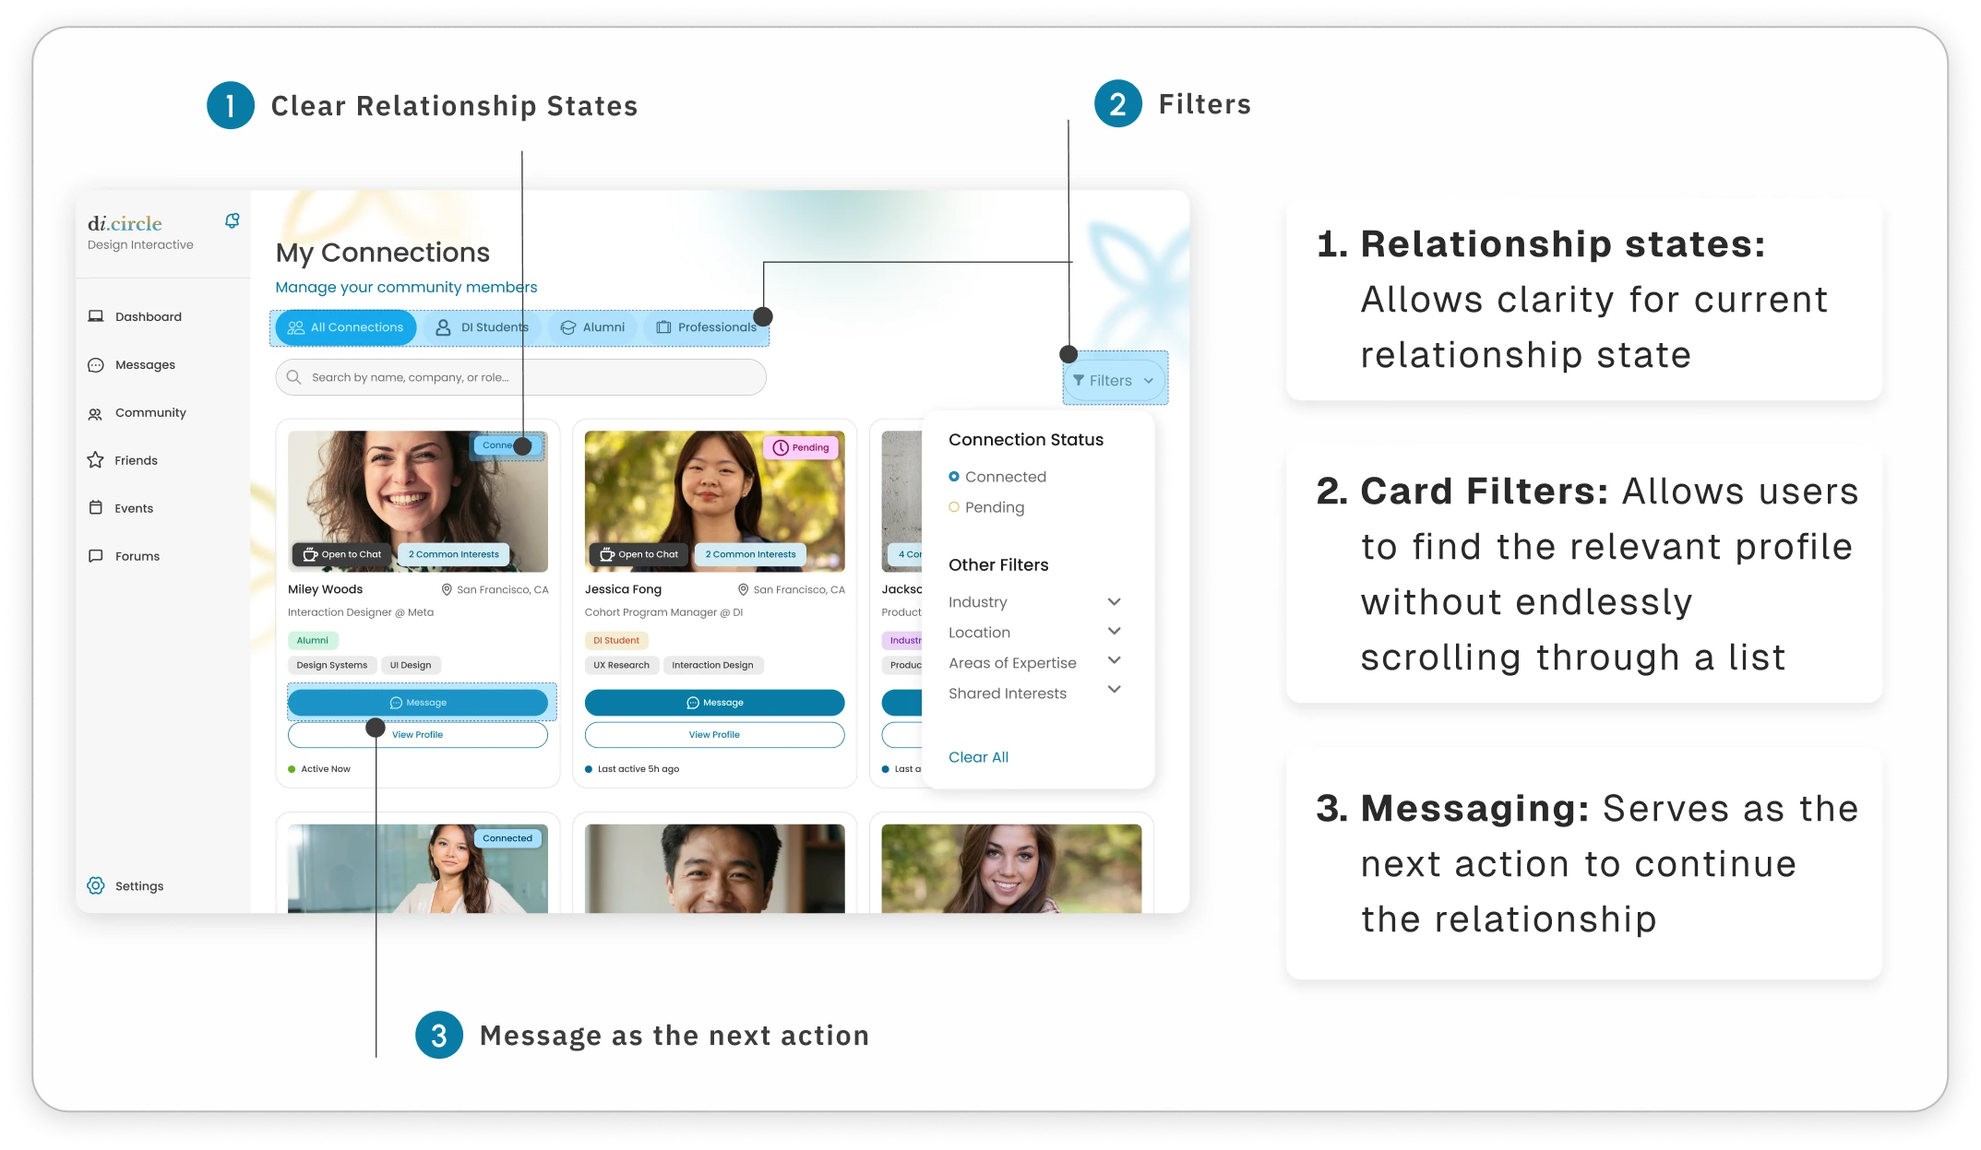
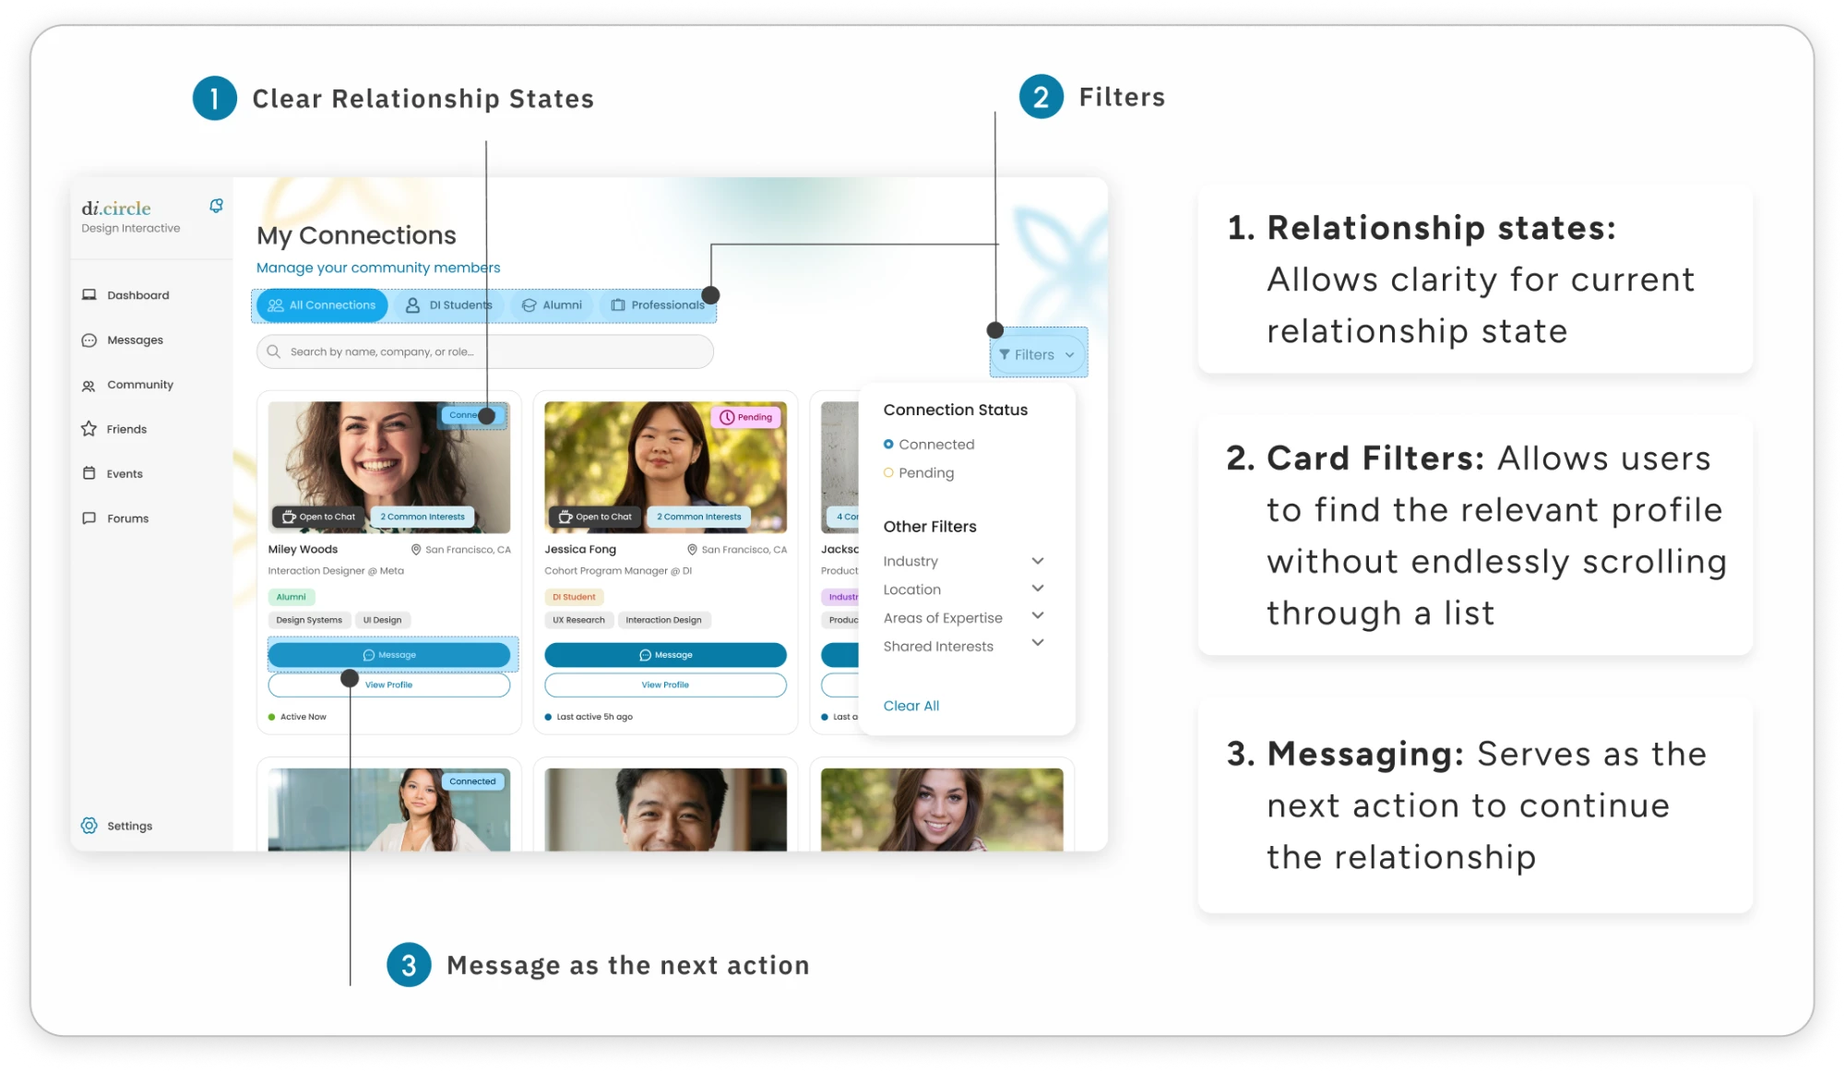
Update the di.circle case study's visuals and copy
Swap in the re-exported annotated figures and add the measurement
table, which replaces the after-journey diagram in Impact. Copy
follows the new drafts: "My Impact" and "Key Artifacts" in both the
headings and the side rail, first-person H3s through Key Design
Moments, and a Reflections section that states the behavioural
takeaway rather than restating the brief.

Changed region(s): [[0.682, 0.4028, 0.93, 0.5886], [0.682, 0.1859, 0.93, 0.3408], [0.682, 0.6816, 0.93, 0.8365]]

diff --git a/src/app/dicircle-case-study/page.tsx b/src/app/dicircle-case-study/page.tsx
@@ -59,8 +59,8 @@ const NEG = "#b4342a";
 // listener subscribes once (see CaseStudySidebar).
 const SECTIONS: SidebarSection[] = [
   { id: "overview", label: "Overview" },
-  { id: "impact", label: "My Contributions" },
-  { id: "artifacts", label: "Final Artifacts" },
+  { id: "impact", label: "My Impact" },
+  { id: "artifacts", label: "Key Artifacts" },
   { id: "problem", label: "The Problem" },
   { id: "research", label: "Research Insights" },
   { id: "challenge", label: "Design Challenge" },
@@ -144,16 +144,16 @@ export default function DiCircleCaseStudy() {
 
         <article id="ts-article" style={{ minWidth: 0, maxWidth: "var(--measure)", flex: "0 1 var(--measure)" }}>
           <h1 className="t-headline" style={{ margin: "0 0 var(--space-headline-to-body)" }}>
-            Lowering the psychological barrier to starting professional relationships
+            Lowering the psychological barrier to starting and maintaining professional relationships
           </h1>
           <p style={{ ...body, marginBottom: "var(--space-section)" }}>
-            Redesigning student-to-professional outreach through insights from 8 usability tests
+            Redesigning student-to-professional outreach, shaped by 11 interviews and 8 usability tests
           </p>
 
           <div style={{ display: "grid", gridTemplateColumns: "repeat(auto-fit,minmax(140px,1fr))", gap: "clamp(22px,5vw,30px) clamp(16px,4vw,28px)", marginBottom: "var(--space-section)" }}>
             {[
               { label: "Timeline", value: <>Oct – Dec 2025<br />(8 Weeks)</> },
-              { label: "My Role", value: "Lead Designer" },
+              { label: "My Role", value: "Connection Experience Designer" },
               { label: "Team", value: "3 Designers + 1 Design Lead" },
               { label: "Skills", value: "Figma, FigJam, Prototyping, User Interviews" },
             ].map((m) => (
@@ -168,30 +168,30 @@ export default function DiCircleCaseStudy() {
           <section id="overview" style={section}>
             <p style={eyebrow}>Overview</p>
             <h2 style={h2}>Students have access to a network of industry professionals, but students face difficulties in outreach</h2>
-            <p style={body}>When students attempt to start a conversation and maintain a relationship with a professional, they&apos;re met with intimidation and uncertainty. This results in potential connections often becoming a collection of unopened profiles and unsent messages.</p>
-            <p style={{ ...body, marginBottom: 0 }}>Design Interactive challenged our team of 4 to design an accessible outreach experience for students connecting with a professional network.</p>
+            <p style={body}>Students have access to a network of industry professionals, but starting a conversation feels intimidating and uncertain, so potential connections become unopened profiles and unsent messages.</p>
+            <p style={{ ...body, marginBottom: 0 }}>Design Interactive challenged our team of 4 to design an easy-to-use outreach experience for students connecting with a professional network.</p>
           </section>
 
           <section id="impact" style={section}>
-            <p style={eyebrow}>My Contributions</p>
-            <h2 style={h2}>I redesigned the connection journey to reduce friction in professional outreach</h2>
+            <p style={eyebrow}>My Impact</p>
+            <h2 style={h2}>I designed the connection experience, from the first request to the ongoing conversation</h2>
             <p style={body}>My contributions included:</p>
-            <div style={{ display: "flex", flexDirection: "column", gap: 16, margin: "0 0 24px" }}>
-              <Bullet>Designed and owned connect requests, relationship management, and the messaging experience.</Bullet>
-              <Bullet>Applied behavioral psychology principles to redesign iterations, reducing user friction.</Bullet>
-              <Bullet>Refined community profiles to better support the transition from evaluating a potential connection to reaching out.</Bullet>
+            {/* The section ends on the list now -- the old summary paragraph
+                repeated the 8-rounds figure that the Key Design Moments
+                heading already carries. */}
+            <div style={{ display: "flex", flexDirection: "column", gap: 16 }}>
+              <Bullet>Designed and owned connect requests, relationship management, and the messaging experience</Bullet>
+              <Bullet>Used behavioral psychology to make outreach feel lower-pressure, from asking for commitment later to removing the blank-page problem</Bullet>
+              <Bullet>Refined community profiles to support the move from evaluating a connection to reaching out</Bullet>
             </div>
-            <p style={{ ...body, marginBottom: 0 }}>
-              Across <strong style={strong}>8 rounds of usability testing</strong>, I identified and addressed high-risk friction points across a student&apos;s connection journey, from finding a professional to initiating and maintaining a relationship.
-            </p>
           </section>
 
           <section id="artifacts" style={section}>
-            <p style={eyebrow}>Final Artifacts</p>
-            <h2 style={h2}>Designing an end-to-end experience to help students move from discovering a professional to building an ongoing relationship</h2>
+            <p style={eyebrow}>Key Artifacts</p>
+            <h2 style={h2}>An end-to-end experience that helps students move from discovering a professional to building an ongoing relationship</h2>
 
             <h3 style={h3}>Connecting with a professional</h3>
-            <p style={body}>A connection flow designed to give students enough context and confidence before reaching out.</p>
+            <p style={body}>A connection flow that gives students enough context and confidence before reaching out.</p>
             <VideoFrame src="/assets/dc-connecting.mp4" label="Screen recording of the di.circle Community Hub: browsing professional profiles and sending a connect request" />
 
             <h3 style={{ ...h3, marginTop: "var(--space-section)" }}>Relationship management</h3>
@@ -205,17 +205,16 @@ export default function DiCircleCaseStudy() {
 
           <section id="problem" style={section}>
             <p style={eyebrow}>The Problem</p>
-            <h2 style={h2}>Students lacked the confidence, context, and low-pressure opportunities needed to initiate the first conversation</h2>
-            <p style={body}>They faced barriers such as intimidation around reaching out, uncertainty about how to start a conversation, and difficulty maintaining relationships.</p>
-            <p style={{ ...body, marginBottom: 0 }}>This often results in friction between finding the right person and building a genuine connection.</p>
+            <h2 style={h2}>Students lacked the confidence, context, and low-pressure opportunities to start the first conversation</h2>
+            <p style={{ ...body, marginBottom: 0 }}>They faced intimidation around reaching out, uncertainty about how to start a conversation, and difficulty maintaining relationships. That created friction between finding the right person and building a genuine connection.</p>
           </section>
 
           <section id="research" style={section}>
             <p style={eyebrow}>Research Insights</p>
-            <h2 style={h2}>The biggest friction occurred between finding someone and feeling ready to reach out</h2>
+            <h2 style={h2}>I discovered the biggest friction sat between finding someone and feeling ready to reach out</h2>
             <p style={body}>
-              Before designing, I wanted to understand what exactly made professional outreach feel difficult and where students hesitated most throughout the connection process. Across{" "}
-              <strong style={strong}>11 collected interviews with college students</strong>, the key insights were:
+              Firstly, I wanted to understand what exactly made professional outreach feel difficult and where students hesitated most throughout the connection process. We interviewed{" "}
+              <strong style={strong}>11 college students</strong> to learn where outreach felt hardest. The key themes were:
             </p>
 
             {/* The four quotes are spelled out in the alt text so they're still
@@ -223,12 +222,12 @@ export default function DiCircleCaseStudy() {
                 carries them as pixels. */}
             <Figure src="/assets/dc-research-quotes.webp" alt="Four interview quotes: “I don’t know if they’re willing to talk to me.” · “I want to know more about them.” · “I’m not sure how to start a conversation.” · “Conversations should feel less shallow.”" mb={26} />
 
-            <p style={body}>Research revealed that students could find professionals, but often lacked the confidence and context needed to decide whether and how to initiate contact.</p>
+            <p style={body}>Students could find professionals, but often lacked the confidence and context to decide whether and how to reach out.</p>
 
             <Figure src="/assets/dc-journey-before.webp" alt="User Connection Journey: 01 Finding a professional, 02 Evaluating a profile, 03 Starting a conversation, 04 Maintaining the relationship — with drop-offs marked between stages 01 and 02" />
 
-            <p style={body}>The highest-friction moments occurred around evaluating whether to reach out, initiating the connection, and knowing what to do afterward.</p>
-            <p style={{ ...body, marginBottom: 0 }}>This reframed the design problem from helping students find professionals to helping them feel confident enough to build a relationship.</p>
+            <p style={body}>The highest-friction moments were evaluating whether to reach out, initiating the connection, and knowing what to do afterward.</p>
+            <p style={{ ...body, marginBottom: 0 }}>That reframed the problem from helping students find professionals to helping them feel confident enough to build a relationship.</p>
           </section>
 
           <section id="challenge" style={section}>
@@ -239,10 +238,10 @@ export default function DiCircleCaseStudy() {
           <section id="moments" style={section}>
             <p style={eyebrow}>Key Design Moments</p>
             <h2 style={h2}>Across 8 usability tests, I identified four moments where students needed more confidence, context, or support to move forward</h2>
-            <p style={{ ...body, marginBottom: "var(--space-section)" }}>I refined these interactions based on what users struggled with — not by redesigning every screen, but by focusing on the moments that most affected the connection journey.</p>
+            <p style={{ ...body, marginBottom: "var(--space-section)" }}>I refined these interactions based on what users struggled with by focusing on the moments that most affected the connection journey.</p>
 
-            <h3 style={h3}>Testing revealed that users wanted to understand a professional before deciding whether to reach out</h3>
-            <p style={body}>I explored how much information was enough to make that decision without overwhelming them, through community profile cards.</p>
+            <h3 style={h3}>Users wanted to understand a professional before deciding whether to reach out</h3>
+            <p style={body}>I explored how much information was enough to make that decision without overwhelming people, through community profile cards.</p>
             <BeforeAfterToggle beforeLabel="Before" afterLabel="After" after={profileAfter} onChange={setProfileAfter} />
             {/* Same shape as ThreadIt's toggle: two sibling visuals swapped by
                 state, so each slot is a direct 1:1 swap for the real export. */}
@@ -253,8 +252,8 @@ export default function DiCircleCaseStudy() {
             )}
             <Bullet>Rather than asking users to commit immediately, I introduced a lower-pressure evaluation step that lets them understand the person before deciding to reach out.</Bullet>
 
-            <h3 style={{ ...h3, marginTop: "var(--space-section)" }}>Making the first connection feel intentional, clear, and low-pressure</h3>
-            <p style={body}>Even after deciding to connect, users noted that they needed more control over how they initiated the relationship. While they knew more about the person, there was still hesitation in initiating the connection.</p>
+            <h3 style={{ ...h3, marginTop: "var(--space-section)" }}>I made the first connection feel intentional, clear, and low-pressure</h3>
+            <p style={body}>Even after learning about the person, users hesitated as they needed more control over how they initiated the relationship. I turned &ldquo;Connect&rdquo; into a more intentional interaction.</p>
             <Figure
               src="/assets/dc-connect-request.webp"
               alt="The connect request flow: a connected profile, a profile with a Send Connect Request button, and the request sheet asking why you'd like to connect with an optional note"
@@ -271,14 +270,14 @@ export default function DiCircleCaseStudy() {
                 <Point ok>Users can decide how they want to connect before sending the request</Point>
               </div>
             </div>
-            <Bullet>I turned &ldquo;Connect&rdquo; into a more intentional interaction by giving users a way to communicate their reason for reaching out, while keeping personalization optional.</Bullet>
+            <Bullet>I gave users a way to communicate their reason for reaching out while keeping personalization optional.</Bullet>
 
-            <h3 style={{ ...h3, marginTop: "var(--space-section)" }}>Making relationship states visible after connecting</h3>
+            <h3 style={{ ...h3, marginTop: "var(--space-section)" }}>I made relationship states clearly visible after connecting</h3>
             <p style={body}>Once a connection request is sent, users needed a clear way to understand their relationship state and decide what to do next. I explored ways for users to manage their relationships.</p>
             <Figure src="/assets/dc-connections-managing.webp" alt="The My Connections screen annotated with three callouts: 1. Relationship states give clarity on the current state, 2. Card filters help users find the relevant profile without endless scrolling, 3. Messaging serves as the next action to continue the relationship" />
             <Bullet>I shifted the experience from simply storing connections to helping users understand and act on their relationships.</Bullet>
 
-            <h3 style={{ ...h3, marginTop: "var(--space-section)" }}>Help users start and maintain the conversation to build the relationship</h3>
+            <h3 style={{ ...h3, marginTop: "var(--space-section)" }}>I introduced guiding prompts to start and maintain the conversation</h3>
             <p style={body}>The blank message field created another psychological barrier. After connecting with someone, users were still faced with an open-ended question: &ldquo;What do I say?&rdquo;</p>
             <BeforeAfterToggle beforeLabel="Before" afterLabel="After" after={messagingAfter} onChange={setMessagingAfter} />
             {messagingAfter ? (
@@ -292,28 +291,45 @@ export default function DiCircleCaseStudy() {
           <section id="results" style={section}>
             <p style={eyebrow}>Impact</p>
             <h2 style={h2}>I turned a high-friction connection flow into a clearer path toward relationship-building</h2>
-            <p style={body}>Across 8 rounds of usability testing, I identified and addressed friction across a student&apos;s connection journey, from finding a professional to initiating and maintaining a relationship.</p>
-            <Figure src="/assets/dc-journey-after.webp" alt="The User Connection Journey after the redesign: all four stages connected through to “Users can outreach with confidence!”" />
-            <Bullet>Rather than measuring success by the number of screens completed, I observed and measured success through users&apos; behaviors throughout the experience, and whether it reduced the friction between wanting to connect and feeling confident enough to reach out.</Bullet>
+            <p style={body}>I observed and measured success through users&apos; behaviors throughout the experience, and whether it reduced the friction between wanting to connect and feeling confident enough to reach out.</p>
+            <p style={body}>As a prototype, we had no live usage data, so here is how I&apos;d measure success next:</p>
+            {/* The table's rows are spelled out in the alt text, since the
+                image itself carries them as pixels. */}
+            <Figure
+              src="/assets/dc-metrics.webp"
+              alt="How I would measure success metrics. 01 Evaluating a profile — profile views that become requests (%). 02 Connecting with a professional — request acceptance rate. 03 Starting a conversation — first message within 7 days (%). 04 Maintaining the relationship — conversations with a reply and follow-up (%). 05 Goal — self-reported confidence after reaching out (1–5)."
+            />
+            <p style={{ ...body, marginBottom: 0 }}>Success means a conversation that gets a reply. I&apos;d watch acceptance rate as a guardrail, so a drop in raw requests from the new evaluation step isn&apos;t mistaken for a failure.</p>
           </section>
 
           <section id="reflection" style={section}>
             <p style={eyebrow}>Reflections</p>
-            <h2 style={h2}>I learned to design for the behavior behind the interaction</h2>
-            <p style={{ ...body, marginBottom: 0 }}>Students have the accessibility to connect with professionals, but the hardest part was feeling confident enough to act on it. Through usability testing, I learned that reducing friction isn&apos;t always about simplifying an interface. Giving users the context, reassurance, and guidance they need to take the next step is just as important.</p>
+            <h2 style={h2}>I learned that psychological friction can be just as important as interaction friction</h2>
+            <p style={body}>Through repeated usability testing, I saw that users didn&apos;t necessarily need fewer actions, but rather needed more confidence and context before taking them.</p>
+            <p style={body}>
+              This changed how I approach interaction design. Rather than asking only{" "}
+              <strong style={strong}>&ldquo;What should the user do?&rdquo;</strong>, I now ask,{" "}
+              <strong style={strong}>&ldquo;What does the user need to understand or feel confident about before they&apos;re ready to complete an action?&rdquo;</strong>
+            </p>
+            <p style={{ ...body, marginBottom: 0 }}>
+              {/* The explicit space matters: a JSX text chunk that holds an
+                  entity AND ends at a newline drops its leading space. */}
+              <strong style={strong}>If I had more time:</strong>{" "}
+              I&apos;d run the measurement plan above with a live cohort.
+            </p>
           </section>
 
           <section id="outcome" style={section}>
             <p style={eyebrow}>The Outcome!</p>
             <h2 style={h2}>Our team won Audience Choice in Design Interactive&apos;s cohort!</h2>
-            <p style={{ ...body, marginBottom: "var(--space-section)" }}>During Design Interactive&apos;s cohort presentation night, we presented our solutions and prototype to our audience and won Audience Choice!</p>
+            <p style={{ ...body, marginBottom: "var(--space-section)" }}>During Design Interactive&apos;s cohort presentation night, we presented our solution and prototype to our audience and won Audience Choice!</p>
             <Figure src="/assets/dc-outcome-team.webp" alt="The four-person di.circle team holding their Audience Choice certificates in front of a screen showing the di.circle presentation" mb={0} />
           </section>
 
           <section id="thanks" style={{ marginBottom: 8 }}>
             <p style={eyebrow}>Gratitude &amp; Special Thanks</p>
             <h2 style={h2}>Thank you to my wonderful design team!</h2>
-            <p style={{ ...body, marginBottom: 0 }}>A special shout-out to my design members: Alyse Cho &amp; Vyvyan Tran! And a big thank you to our design lead Joanne Cai for mentoring our team throughout the design sprint! Each member worked endlessly together.</p>
+            <p style={{ ...body, marginBottom: 0 }}>Thank you to my teammates Alyse Cho and Vyvyan Tran, and to our design lead Joanne Cai for mentoring us through the sprint.</p>
           </section>
         </article>
       </div>
